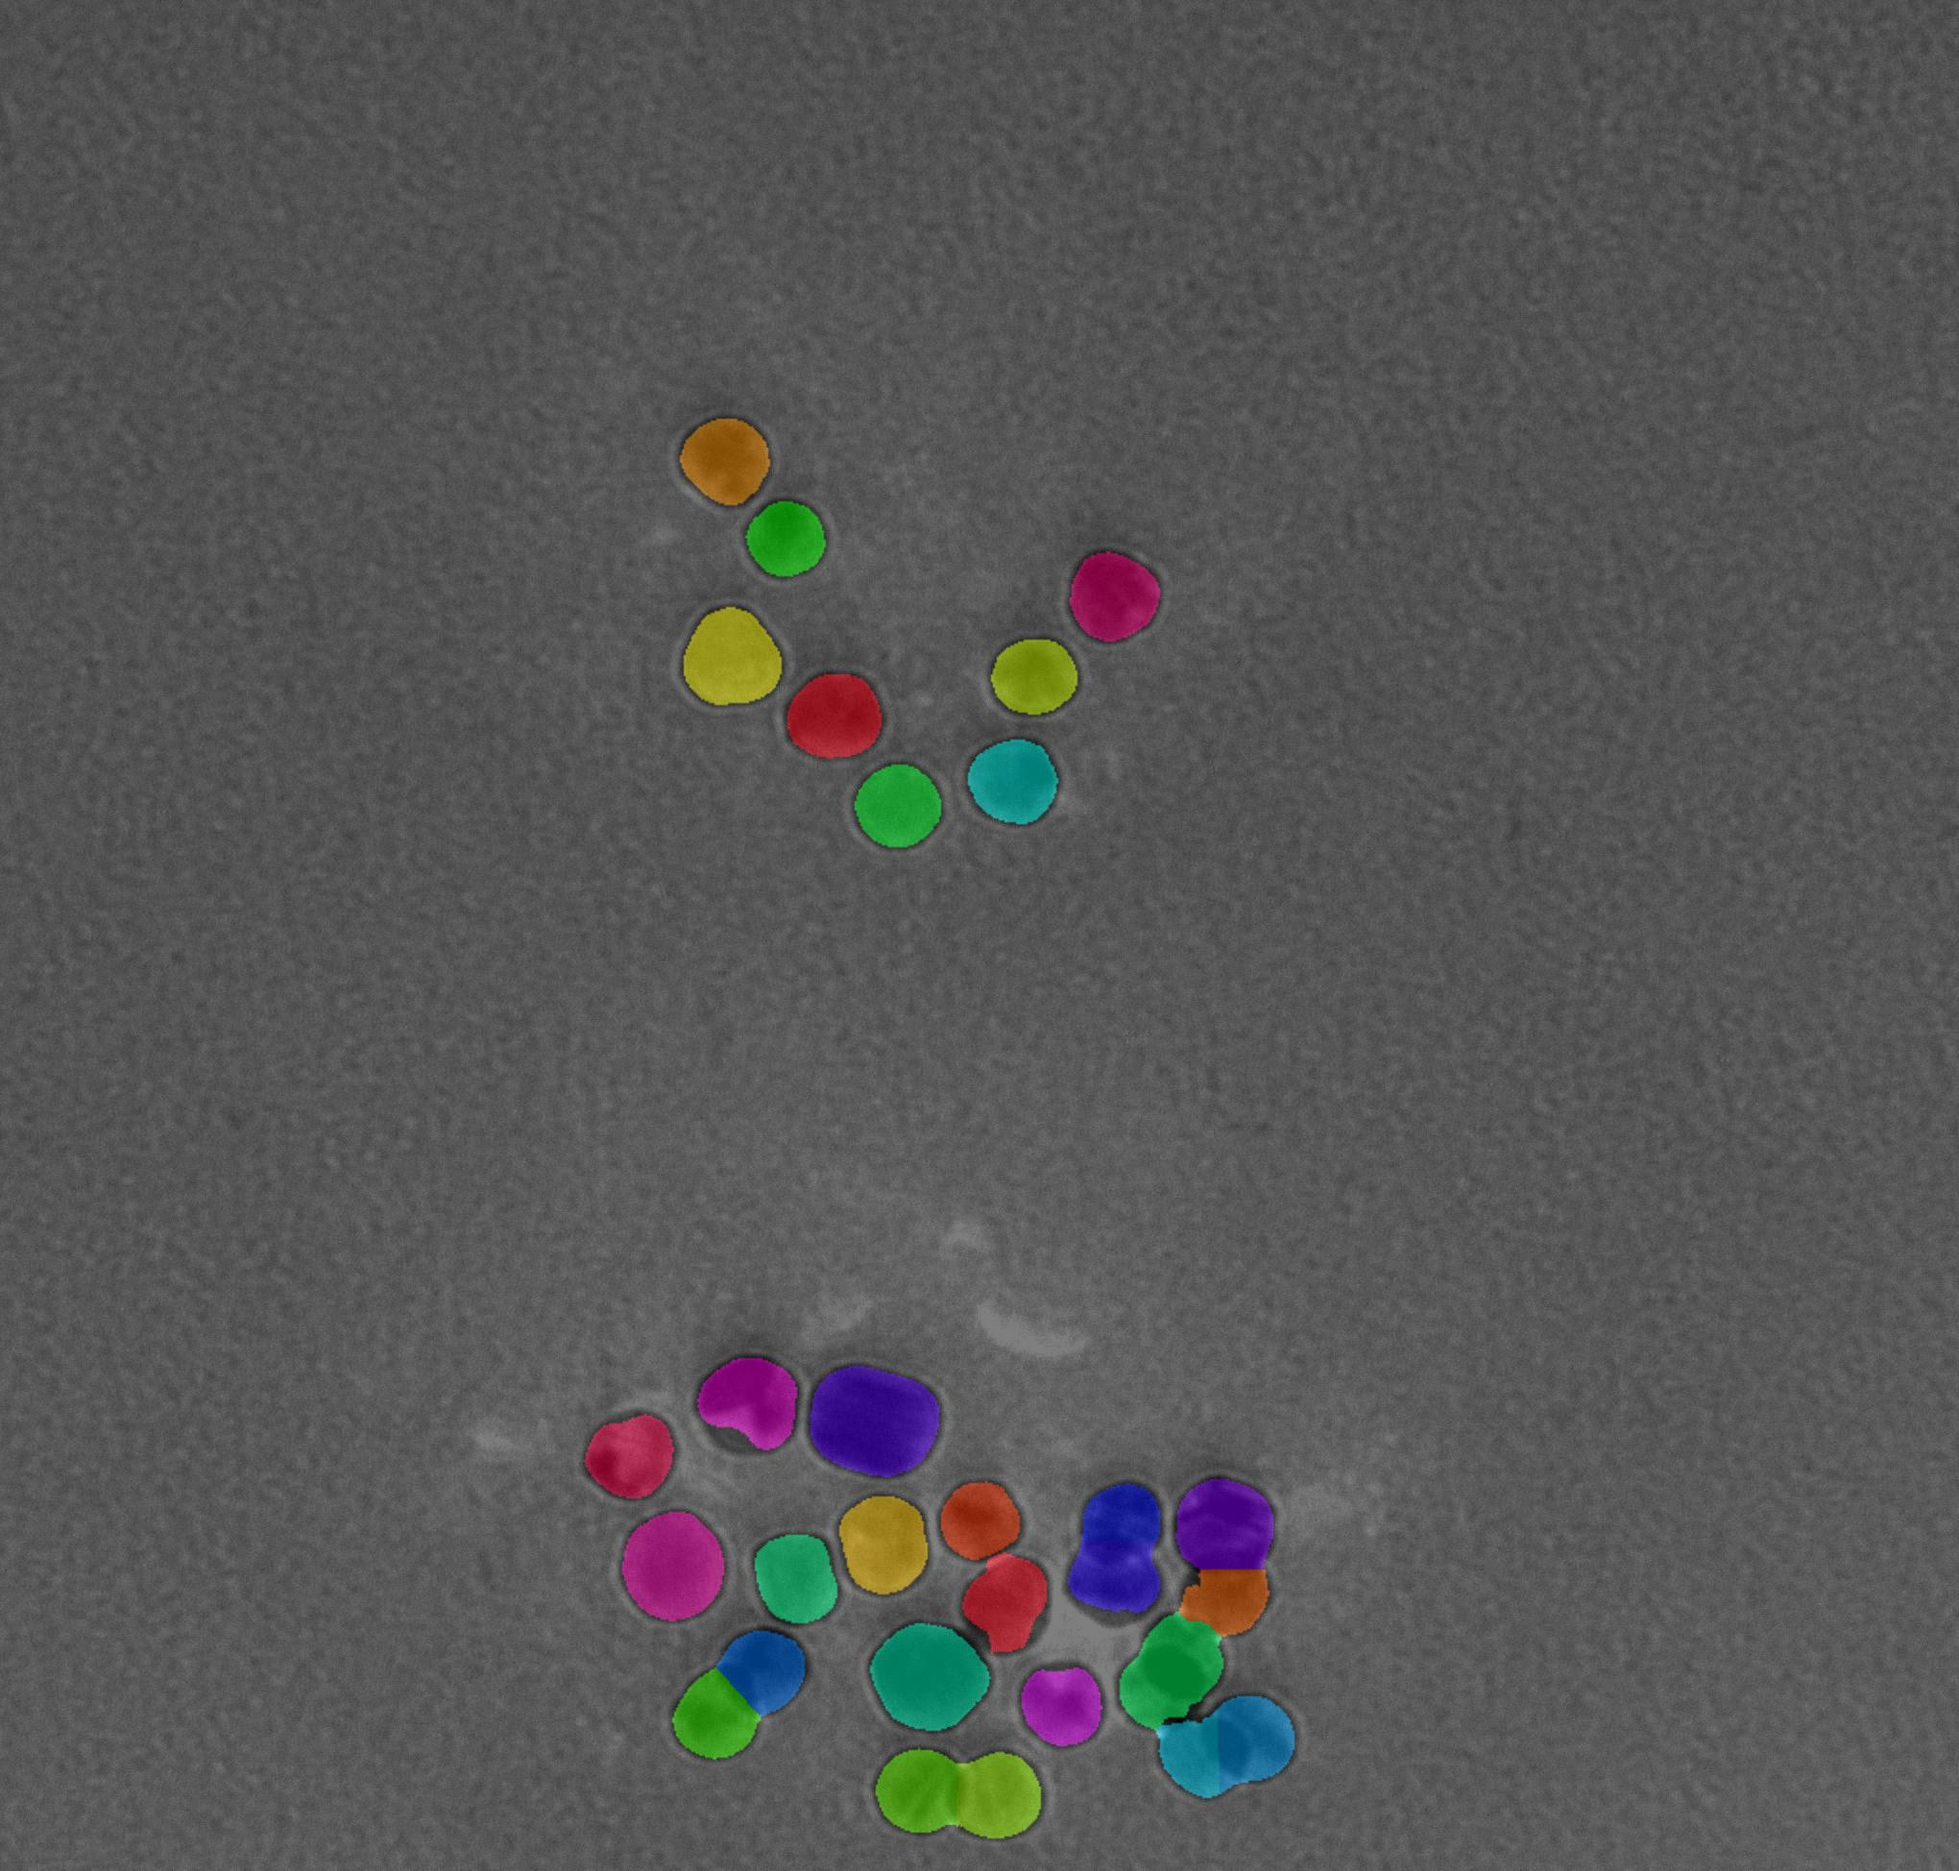
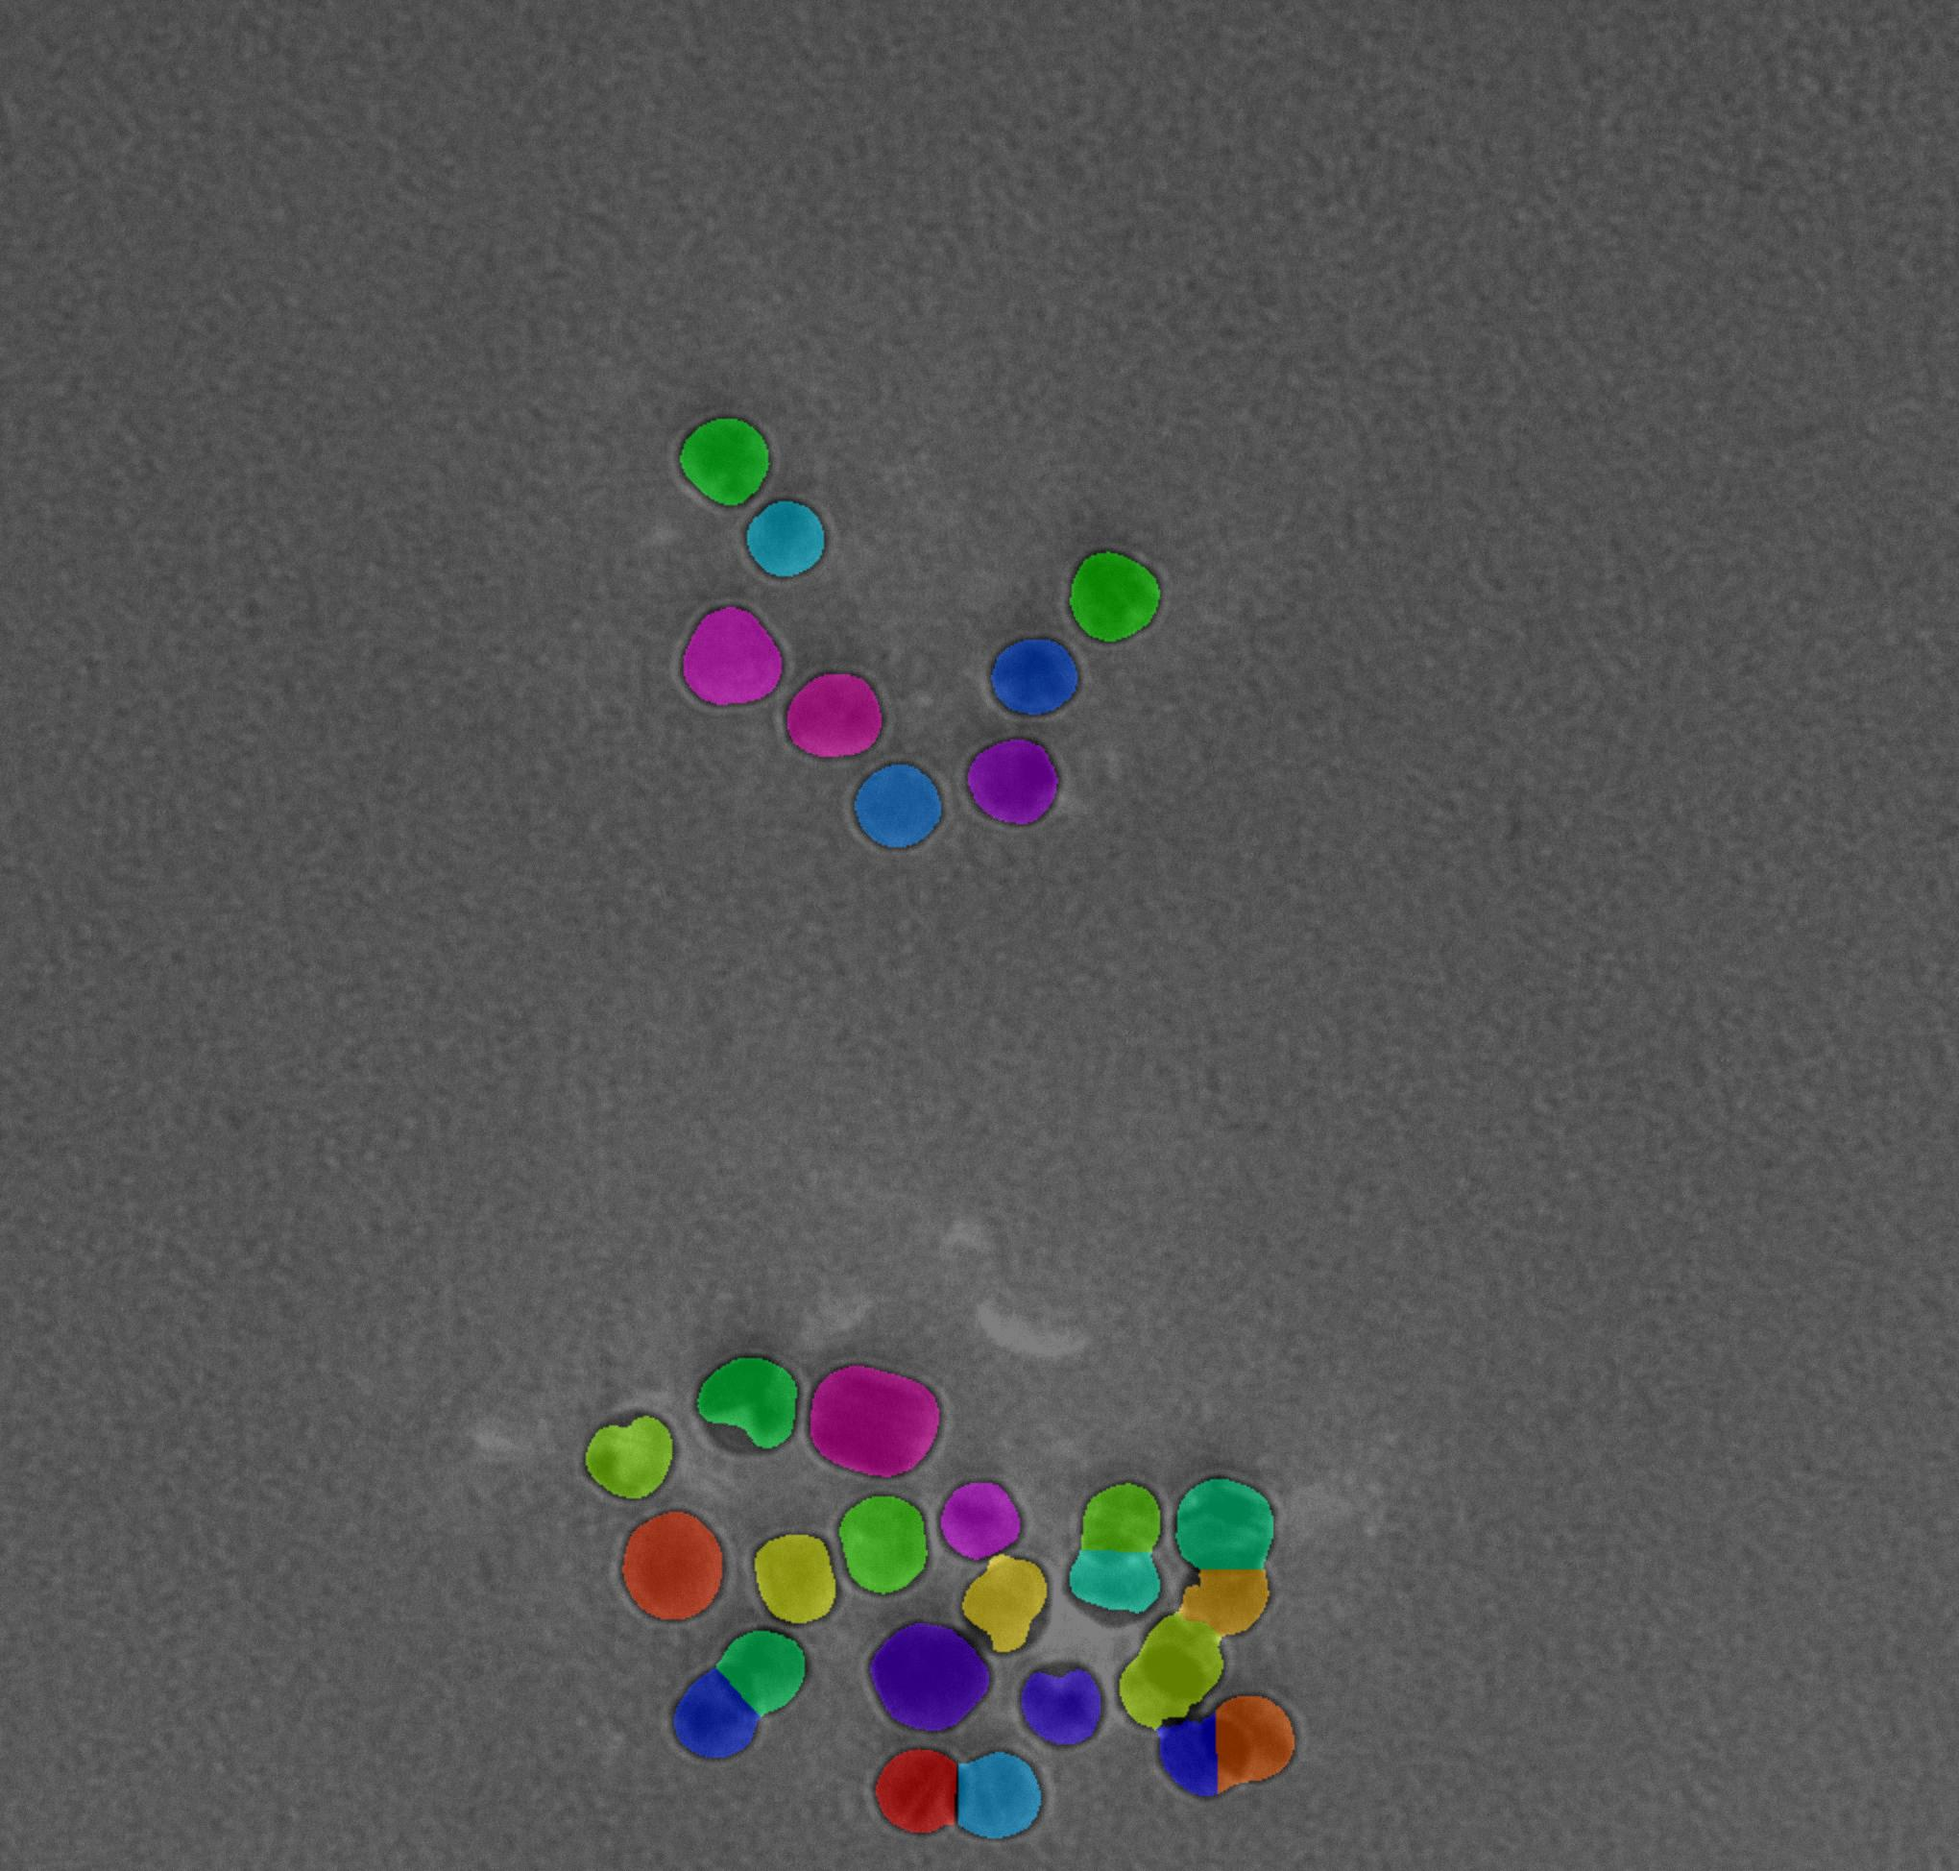
clearing image borders, filling holes and add new input images

Changed region(s): [[0.2779, 0.7084, 0.6794, 0.9856], [0.3397, 0.2156, 0.6176, 0.462]]

diff --git a/img_fcn.py b/img_fcn.py
@@ -9,9 +9,9 @@ import re
 import argparse
 from copy import deepcopy, copy
 from skimage.io import imread
-from skimage.filters import threshold_otsu, threshold_minimum, median, rank, _gaussian
+from skimage.filters import threshold_otsu, threshold_minimum, median
 from skimage.color import rgb2gray
-from skimage.segmentation import watershed
+from skimage.segmentation import watershed, clear_border
 from skimage.feature import peak_local_max, canny
 from skimage.transform import rescale, hough_circle, hough_circle_peaks
 from skimage.measure import regionprops_table, label
@@ -150,32 +150,17 @@ def background(img):
 
     img *= 255
     img = cv2.edgePreservingFilter(img.astype(np.uint8),
-                                   flags=1,
+                                   flags=cv2.RECURS_FILTER,
                                    sigma_s=60,
                                    sigma_r=0.1)
     img = cv2.medianBlur(img.astype(np.uint8), 9)
-
-    plt.imshow(img, cmap='gray')
-    plt.show()
     
     return img
 
 
-def light_particles(img, np_type):
-    """Find light spots in particles
-    
-    Args:
-        img (numpy.ndarray): single-channel image
-        np_type (string): nanoparticles or nanorods"""
-    maximum = np.max(img)
-    if maximum == 1.0:
-        img[img == 1.0] = 0
-        plt.imshow(img)
-        plt.show()
-
-
-def binarizing(img, np_type, is_bg):
-    """Find threshold and binarize image
+def binarizing(img, np_type):
+    """Find threshold, binarize image and perfrom morphological operations
+        for clearing image, cannny edge detection for better separation.
 
     Args:
         img (numpy.ndarray): single-channel image
@@ -184,22 +169,11 @@ def binarizing(img, np_type, is_bg):
     Returns:
         numpy array: binary image
     """
-
-    if np_type == "nanoparticles":
-        thresh = threshold_minimum(img)
-    else:
-        thresh = threshold_otsu(img)
+    thresh = threshold_otsu(img)
 
     binary = img < thresh
     binary = remove_small_holes(binary)
     binary = remove_small_objects(binary)
-
-    '''if is_bg:
-        for _ in range(3):
-            binary = cv2.morphologyEx(binary.astype(np.uint8),
-                                    cv2.MORPH_OPEN, disk(5))
-            binary = cv2.morphologyEx(binary.astype(np.uint8),
-                                      cv2.MORPH_CLOSE, disk(5))'''
 
     img *= 255
     edges = cv2.Canny(img.astype(np.uint8), 20, 200)
@@ -214,11 +188,13 @@ def binarizing(img, np_type, is_bg):
                                     cv2.MORPH_ERODE, disk(5))
     binary = cv2.morphologyEx(binary.astype(np.uint8),
                                     cv2.MORPH_DILATE, disk(5))
+    if np_type == 'nanorods':
+        binary = ndi.binary_fill_holes(binary)
+    binary = clear_border(binary)
+
     plt.subplot(2, 2, 3)
     plt.imshow(binary, cmap='gray')
-
-    if np_type == "nanorods":
-        plt.show()
+    plt.show()
         
     return binary
 
@@ -318,7 +294,7 @@ def result_image(raw, labels, np_type, props_ht):
         labels_new[labels == i] = mix[i - 1]
 
     labels = np.ma.masked_where(labels_new == 0, labels_new)
-    c_map = plt.get_cmap('hsv', max_val).copy()
+    c_map = plt.get_cmap('gist_rainbow', max_val).copy()
     c_map.set_bad(color='black', alpha=None)
     labels = c_map(labels)
     img = overlay_images(raw, labels)
